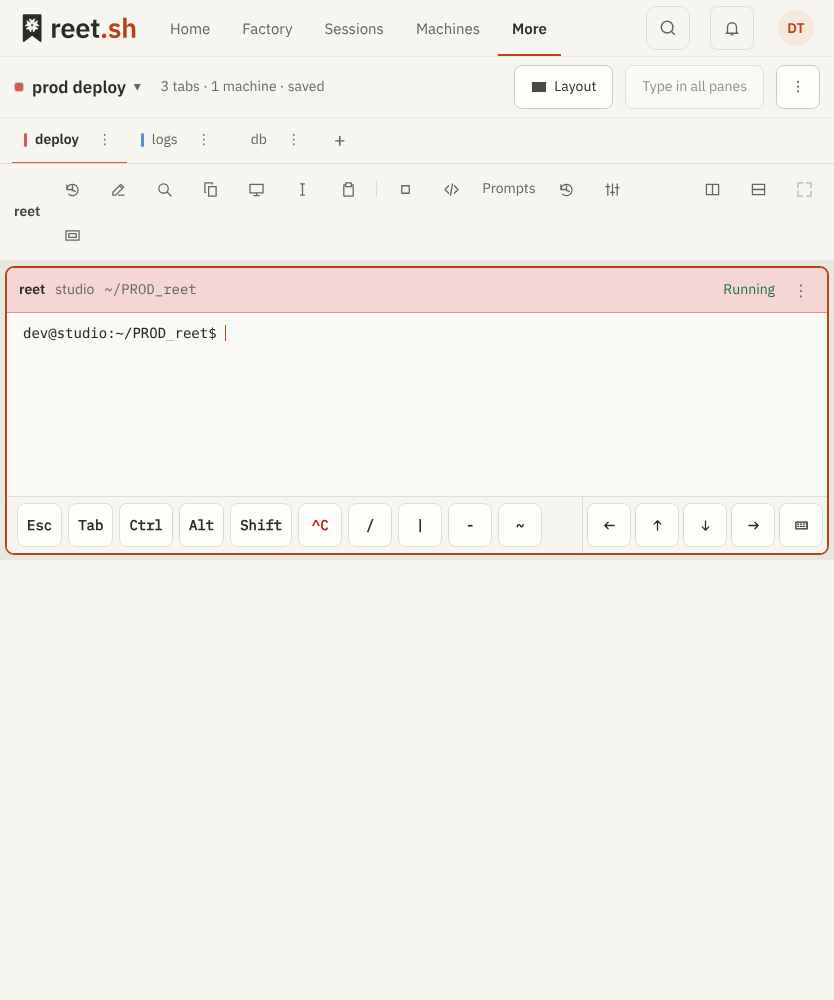
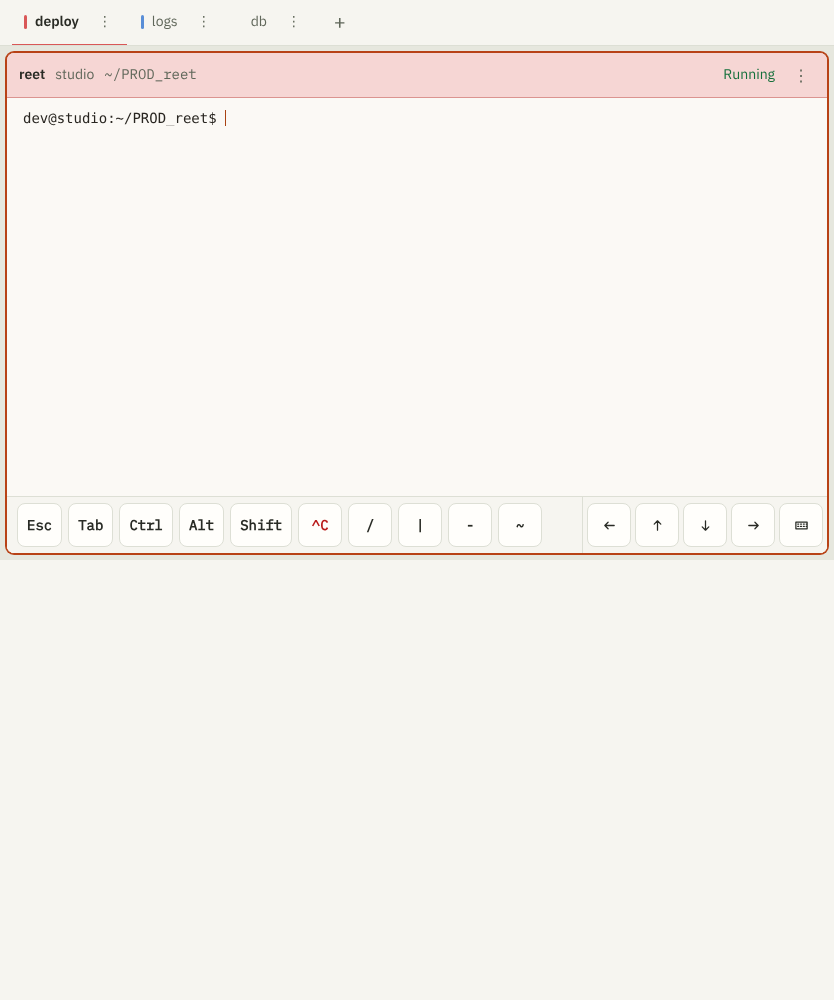
Let the bars step aside while typing in a desk pane with the keyboard open
The site bar, the desk bar and the tool row took about 210 px above the
pane. Only the tab bar stays while a pane has the on-screen keyboard.

Claude-Session: https://claude.ai/code/session_011MNNzram3Xr2uZ9UFhX8yQ

diff --git a/web/src/lib/desks/DeskScreen.svelte b/web/src/lib/desks/DeskScreen.svelte
@@ -139,6 +139,8 @@
       fitFrame = requestAnimationFrame(() => {
         const reading = browserViewport(), height = fittedHeight(pageViewport.read(reading), reading)
         const root = document.documentElement
+        // Typing in a pane on a touch screen: only the tab bar stays above it, so the terminal gets the room.
+        typing = height !== null && matchMedia('(pointer: coarse)').matches && !!section?.querySelector('.area')?.contains(document.activeElement)
         if (height === null) root.style.removeProperty('--desk-fit')
         else {
           root.style.setProperty('--desk-fit', `${height}px`)
@@ -151,8 +153,13 @@
     addEventListener('resize', fit)
     visualViewport?.addEventListener('resize', fit)
     visualViewport?.addEventListener('scroll', fit)
+    document.addEventListener('focusin', fit)
+    document.addEventListener('focusout', fit)
     return () => {
       cancelAnimationFrame(fitFrame)
+      document.removeEventListener('focusin', fit)
+      document.removeEventListener('focusout', fit)
+      typing = false
       removeEventListener('resize', fit)
       visualViewport?.removeEventListener('resize', fit)
       visualViewport?.removeEventListener('scroll', fit)
@@ -850,6 +857,9 @@
   // Theatre view: the top bar and the desk header fold away, leaving the tab bar, the toolbar and the panes.
   let theatre = $state(false)
   $effect(() => { document.documentElement.toggleAttribute('data-desk-theatre', theatre) })
+  // An on-screen keyboard is open over a pane the person is typing in (set where the screen is fitted above it).
+  let typing = $state(false)
+  $effect(() => { document.documentElement.toggleAttribute('data-desk-typing', typing); return () => document.documentElement.removeAttribute('data-desk-typing') })
 
   // The Keys list.
   let keysOpen = $state(false), keysDialog = $state<HTMLDialogElement>()
@@ -894,7 +904,7 @@
 
 <svelte:window onkeydowncapture={onKey} />
 
-<section class="desk-screen" class:theatre bind:this={section} aria-label={desk ? `Desk ${desk.name}` : 'Desk'}>
+<section class="desk-screen" class:theatre class:typing bind:this={section} aria-label={desk ? `Desk ${desk.name}` : 'Desk'}>
   {#if failure}
     <div class="gone"><p role="alert">{failure}</p><div class="acts">{#if failure === READ_FAILED}<button type="button" class="btn primary" onclick={() => start(id)}>Try again</button>{/if}<button type="button" class="btn" onclick={onlist}>All desks</button></div></div>
   {:else if !desk}
@@ -960,7 +970,7 @@
         {/each}
       </div>
     {/if}
-    {#if activeTab && activePane}
+    {#if activeTab && activePane && !typing}
       <DeskToolbar name={paneName(activePane)} actions={actionsFor[activePaneId]} splits={!phone && !template} zoomed={!!zoomed} {theatre}
         canZoom={ids.length > 1} onsplit={dir => void splitPane(dir)} onzoom={() => zoom()} ontheatre={() => (theatre = !theatre)} />
     {/if}
@@ -1122,6 +1132,9 @@
   /* Theatre: the top bar (App's .site-header) and the desk header fold away; the tab bar, toolbar and panes stay. */
   .theatre .dhead { display: none; }
   :global(html[data-desk-theatre] .site-header) { display: none; }
+  /* Typing with an on-screen keyboard open: the same two fold away, and the toolbar is not shown, until the keyboard closes. */
+  .typing .dhead { display: none; }
+  :global(html[data-desk-typing] .site-header) { display: none; }
   .keys { max-width: min(460px, calc(100vw - 32px)); padding: 0; border: 0; background: transparent; color: var(--ink); }
   .keys::backdrop { background: var(--scrim); }
   .keys .box { padding: 24px; background: var(--card-raised); border: 1px solid var(--line-strong); border-radius: 16px; box-shadow: var(--shadow); }

diff --git a/handoff.md b/handoff.md
@@ -30,8 +30,11 @@ The owner reported, from an Android tablet, that a desk's terminal did not adjus
   uses in place of `100dvh`, and scrolls back to the top if the browser panned the page.
 - **Checked:** unit test in `terminal-sizing.test.mjs`; `desks.e2e.mjs` stands in a visual viewport, shrinks it to
   560 of 1000 and reads the desk's bottom edge; `desks-phone.e2e.mjs` still passes.
-- **Not checked:** a real tablet or phone. The site bar, desk bar, tab bar and toolbar still take about 260 px above
-  the pane with the keyboard open; nothing steps aside as the phone chrome does on the session screen.
+- **Bars step aside (the owner's choice: tabs only).** While the screen is fitted, the pointer is coarse and focus is
+  inside `.area`, `typing` is true: the site header and `.dhead` are hidden (as in theatre) and `DeskToolbar` is not
+  rendered. The tab bar, the phone's pane chips, the pane header and its keys bar stay. A keyboard opened by a
+  field outside the panes (the desk's name, a dialog) moves nothing.
+- **Not checked:** a real tablet or phone; the keyboard is a stand-in visual viewport.
 
 ## FACTORY-REALRUN-1: what the first real split run showed (17 November 2026)
 

diff --git a/docs/ui-verification.md b/docs/ui-verification.md
@@ -4380,6 +4380,8 @@ production build: the confirmation, the request (`revision`, `on`, `confirmed`),
 
 With a keyboard that overlays the page, an open desk ends above it. Checked at 834 wide in `desks.e2e.mjs` against
 a production build with a stand-in visual viewport of 560 of 1000 px: the desk's bottom edge is at or above 560,
-the panes keep more than 120 px, and the desk fills the window again when the keyboard closes.
+the panes keep more than 120 px, and the desk fills the window again when the keyboard closes. While a pane has
+the keyboard, the site bar, desk bar and tool row are gone and the tab bar stays, leaving the panes more than
+440 of the 560 px; a keyboard opened from the desk bar moves nothing aside.
 
 ![A desk fitted above the keyboard](images/ui/desks-keyboard-834.png)

diff --git a/CHANGELOG.md b/CHANGELOG.md
@@ -9,6 +9,9 @@ this file existed releases were described on their GitHub release pages.
   an open desk now ends above the keyboard, so the terminal's last rows and
   its keys bar stay in view while you type. Before, the desk kept the
   window's full height and the keyboard covered the bottom of the pane.
+  While you type in a pane, the site bar, the desk bar and the tool row step
+  aside so the terminal gets the room; the tab bar stays, and everything
+  comes back when the keyboard closes.
 
 - **Desks**: **Layout** now works on a tab with one pane. It combines tabs:
   all of them at once, or the ones you tick in **Combine tabs…**, laid out
